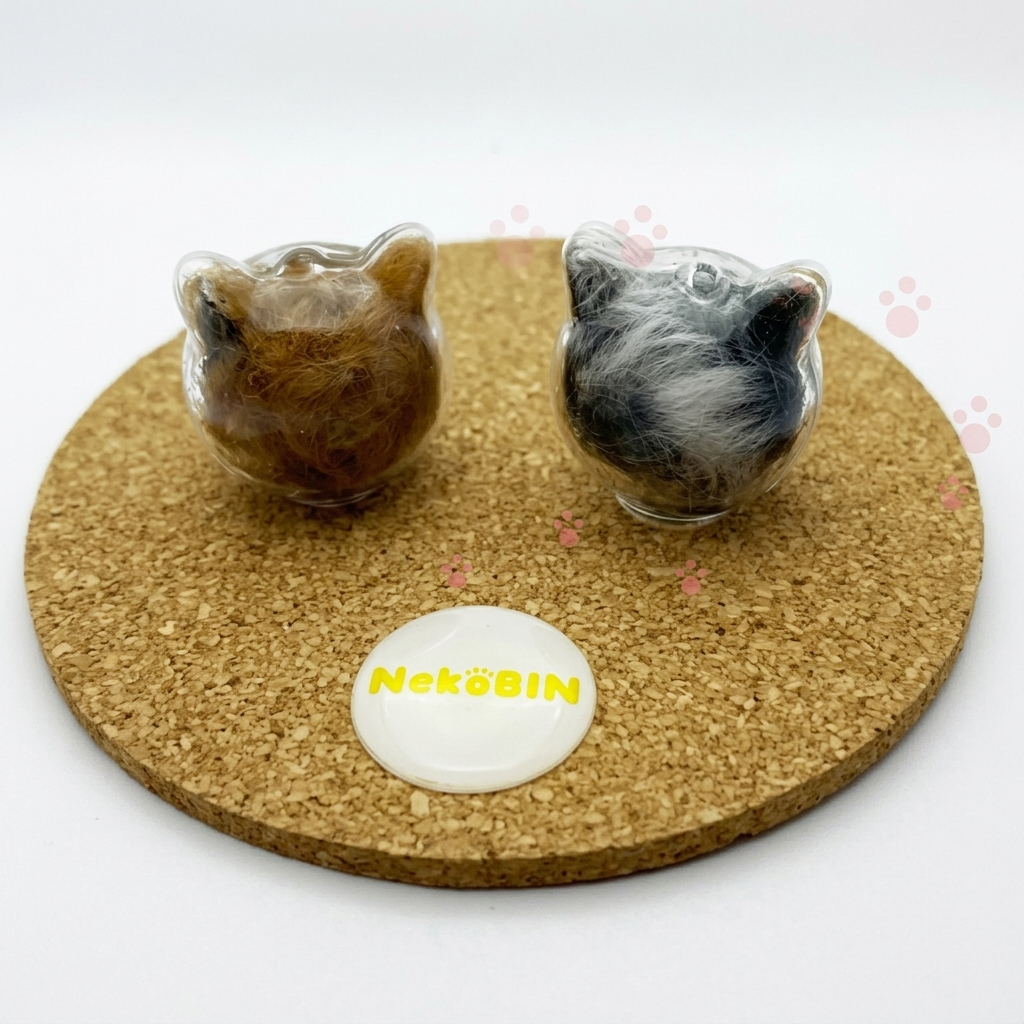
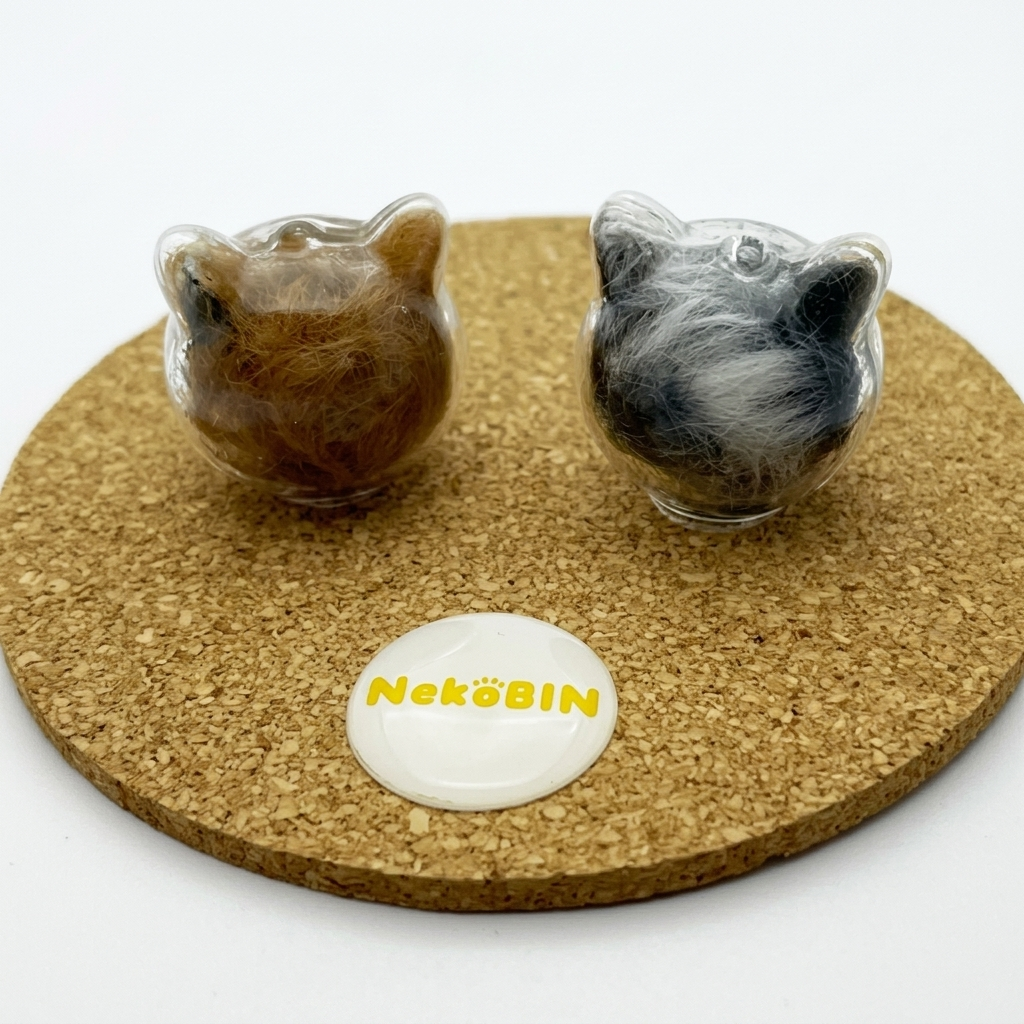
Branding alignment: update premium messaging, remove pink paw prints, and clean up images

diff --git a/script.js b/script.js
@@ -80,57 +80,5 @@ document.addEventListener('DOMContentLoaded', () => {
         });
     }
 
-    // Cat Footprint Cursor Trail Implementation (Matched with Target LP)
-    let lastX = 0;
-    let lastY = 0;
-    const distanceThreshold = 60; // Distance to spawn next paw
-    let stepCount = 0;
-
-    document.addEventListener('mousemove', (e) => {
-        const x = e.pageX; // Use pageX for absolute positioning
-        const y = e.pageY; // Use pageY for absolute positioning
-
-        const distance = Math.sqrt(Math.pow(x - lastX, 2) + Math.pow(y - lastY, 2));
-
-        if (distance > distanceThreshold) {
-            // Calculate angle for rotation
-            const angle = Math.atan2(y - lastY, x - lastX) * (180 / Math.PI) + 90;
-            
-            // Alternating offset for left/right paws
-            const offsetDist = 12;
-            const isRight = stepCount % 2 === 0;
-            const offsetX = Math.cos((angle - 180) * (Math.PI / 180)) * (isRight ? offsetDist : -offsetDist);
-            const offsetY = Math.sin((angle - 180) * (Math.PI / 180)) * (isRight ? offsetDist : -offsetDist);
-
-            createPawPrint(x + offsetX, y + offsetY, angle);
-            
-            lastX = x;
-            lastY = y;
-            stepCount++;
-        }
-    });
-
-    function createPawPrint(x, y, angle) {
-        const paw = document.createElement('div');
-        paw.className = 'cat-paw-trail';
-        paw.style.left = `${x - 20}px`; // Centering 40px width
-        paw.style.top = `${y - 20}px`;
-        paw.style.transform = `rotate(${angle}deg)`;
-        
-        paw.innerHTML = `
-            <svg viewBox="0 0 100 120" xmlns="http://www.w3.org/2000/svg" style="fill: #E8727A; width: 100%; height: 100%;">
-                <circle cx="50" cy="18" r="15"/>
-                <circle cx="18" cy="45" r="13"/>
-                <circle cx="82" cy="45" r="13"/>
-                <circle cx="50" cy="82" r="28"/>
-            </svg>
-        `;
-        
-        document.body.appendChild(paw);
-
-        // Remove from DOM after 3 seconds (as requested)
-        setTimeout(() => {
-            paw.remove();
-        }, 3000);
-    }
+    // Navigation handling logic remains here (if any)
 });

diff --git a/index.html b/index.html
@@ -11,7 +11,7 @@
     <meta property="og:type" content="website">
     <meta property="og:title" content="NekoBIN（ねこビン）| 愛するペットの毛を、思い出に変える。">
     <meta property="og:description" content="ペットとの日々を美しく残す「ペット愛毛ケース」NekoBIN。">
-    <meta property="og:image" content="https://example.com/ogp.jpg"> <!-- TODO: Replace with actual image -->
+    <meta property="og:image" content="nekobin_yellow_text.png">
     
     <!-- Google Fonts -->
     <link rel="preconnect" href="https://fonts.googleapis.com">
@@ -53,13 +53,6 @@
                     <div class="cta-group fade-in">
                         <a href="#products" class="btn btn-primary" style="border-radius: 30px; border: 2px solid var(--color-accent-soft); background-color: var(--color-accent-soft); color: var(--color-white);">商品を見る</a>
                     </div>
-                    <!-- Static Paw Decorations -->
-                    <div class="static-paw" style="top: -20%; left: 10%; transform: rotate(-15deg);">
-                        <svg viewBox="0 0 100 120" xmlns="http://www.w3.org/2000/svg"><circle cx="50" cy="18" r="15"/><circle cx="18" cy="45" r="13"/><circle cx="82" cy="45" r="13"/><circle cx="50" cy="82" r="28"/></svg>
-                    </div>
-                    <div class="static-paw" style="bottom: -30%; right: 5%; transform: rotate(20deg);">
-                        <svg viewBox="0 0 100 120" xmlns="http://www.w3.org/2000/svg"><circle cx="50" cy="18" r="15"/><circle cx="18" cy="45" r="13"/><circle cx="82" cy="45" r="13"/><circle cx="50" cy="82" r="28"/></svg>
-                    </div>
                 </div>
             </div>
         </section>
@@ -67,7 +60,7 @@
         <!-- 2. Brand Story -->
         <section id="story" class="story-section animate-on-scroll">
             <div class="container">
-                <h2 class="section-title">Story<span class="title-paw"><svg viewBox="0 0 100 120" xmlns="http://www.w3.org/2000/svg"><circle cx="50" cy="18" r="15"/><circle cx="18" cy="45" r="13"/><circle cx="82" cy="45" r="13"/><circle cx="50" cy="82" r="28"/></svg></span></h2>
+                <h2 class="section-title">Story</h2>
                 <div class="story-content">
                     <div class="story-image-container fade-in" style="margin-bottom: 3rem; text-align: center;">
                         <img src="story_header_image.png" alt="かわいい猫たち" style="max-width: 100%; border-radius: 15px; box-shadow: 0 15px 40px rgba(0,0,0,0.1);">
@@ -81,9 +74,6 @@
                     <div class="story-image-container fade-in" style="margin-top: 3rem; text-align: center;">
                         <img src="nekobin_yellow_text.png" alt="NekoBIN" style="max-width: 100%; border-radius: 15px; box-shadow: 0 15px 40px rgba(0,0,0,0.1);">
                     </div>
-                    <div class="static-paw" style="bottom: 0; right: 0; opacity: 0.05;">
-                        <svg viewBox="0 0 100 120" xmlns="http://www.w3.org/2000/svg"><circle cx="50" cy="18" r="15"/><circle cx="18" cy="45" r="13"/><circle cx="82" cy="45" r="13"/><circle cx="50" cy="82" r="28"/></svg>
-                    </div>
                 </div>
             </div>
         </section>
@@ -91,14 +81,15 @@
         <!-- 3. Product Lineup -->
         <section id="products" class="products-section animate-on-scroll">
             <div class="container">
-                <h2 class="section-title">Products<span class="title-paw"><svg viewBox="0 0 100 120" xmlns="http://www.w3.org/2000/svg"><circle cx="50" cy="18" r="15"/><circle cx="18" cy="45" r="13"/><circle cx="82" cy="45" r="13"/><circle cx="50" cy="82" r="28"/></svg></span></h2>
-                <p style="text-align: center; margin-top: -2.5rem; margin-bottom: 3rem; color: var(--color-text-sub); font-family: var(--font-serif); font-size: 1.1rem; letter-spacing: 0.1em;">お迎え記念や贈り物に</p>
+                <h2 class="section-title">Products</h2>
+                <p style="text-align: center; margin-top: -2.5rem; margin-bottom: 3rem; color: var(--color-text-sub); font-family: var(--font-serif); font-size: 1.1rem; letter-spacing: 0.1em;">お迎え記念や贈り物に、桐箱入りのプレミアムな体験を</p>
                 <div class="product-grid">
                     <div class="product-card">
                         <div class="product-image">
                             <img src="premium_cat_bin_image_1777541962179.png" alt="ねこビン">
                         </div>
                         <h3>ねこビン</h3>
+                        <p class="product-note" style="margin-bottom: 0.5rem;">桐箱入り / シリアルナンバー入り</p>
                         <div class="product-variations">
                             <div class="variation">
                                 <img src="https://stationery.sentouryoku.com/wp-content/uploads/2026/03/detail_38719_17035073724472.webp" alt="ねこビン ディスプレイタイプ">
@@ -116,6 +107,7 @@
                             <img src="premium_dog_bin_image_1777541921313.png" alt="いぬビン">
                         </div>
                         <h3>いぬビン</h3>
+                        <p class="product-note" style="margin-bottom: 0.5rem;">桐箱入り / シリアルナンバー入り</p>
                         <div class="product-variations">
                             <div class="variation">
                                 <img src="https://stationery.sentouryoku.com/wp-content/uploads/2026/03/inubin_display.png" alt="いぬビン ディスプレイタイプ">
@@ -133,6 +125,7 @@
                             <img src="premium_rabbit_bin_image_1777541940133.png" alt="うさビン">
                         </div>
                         <h3>うさビン</h3>
+                        <p class="product-note" style="margin-bottom: 0.5rem;">桐箱入り / シリアルナンバー入り</p>
                         <div class="product-variations">
                             <div class="variation">
                                 <img src="https://stationery.sentouryoku.com/wp-content/uploads/2026/03/usabin_display.png" alt="うさビン ディスプレイタイプ">
@@ -196,7 +189,7 @@
         <!-- 4. How to Use -->
         <section id="usage" class="usage-section animate-on-scroll">
             <div class="container">
-                <h2 class="section-title">How to Use<span class="title-paw"><svg viewBox="0 0 100 120" xmlns="http://www.w3.org/2000/svg"><circle cx="50" cy="18" r="15"/><circle cx="18" cy="45" r="13"/><circle cx="82" cy="45" r="13"/><circle cx="50" cy="82" r="28"/></svg></span></h2>
+                <h2 class="section-title">How to Use</h2>
                 <div class="usage-steps">
                     <div class="step">
                         <span class="step-num">01</span>
@@ -244,7 +237,7 @@
         <!-- 5. Voice -->
         <section id="voice" class="voice-section animate-on-scroll">
             <div class="container">
-                <h2 class="section-title">Voice<span class="title-paw"><svg viewBox="0 0 100 120" xmlns="http://www.w3.org/2000/svg"><circle cx="50" cy="18" r="15"/><circle cx="18" cy="45" r="13"/><circle cx="82" cy="45" r="13"/><circle cx="50" cy="82" r="28"/></svg></span></h2>
+                <h2 class="section-title">Voice</h2>
                 <p class="voice-hint" style="text-align: center; color: var(--color-text-main); font-size: 0.9rem; margin-top: -1.5rem; margin-bottom: 2rem;">※カーソルを合わせるとお客様の声が表示されます</p>
                 <div class="voice-content">
                     <div class="voice-grid">
@@ -280,7 +273,7 @@
         <!-- 6. Social Impact -->
         <section id="impact" class="impact-section animate-on-scroll">
             <div class="container">
-                <h2 class="section-title">Social Impact<span class="title-paw"><svg viewBox="0 0 100 120" xmlns="http://www.w3.org/2000/svg"><circle cx="50" cy="18" r="15"/><circle cx="18" cy="45" r="13"/><circle cx="82" cy="45" r="13"/><circle cx="50" cy="82" r="28"/></svg></span></h2>
+                <h2 class="section-title">Social Impact</h2>
                 <div class="impact-content">
                     <p class="impact-message">「ひとつの思い出が、もうひとつの命を支える。」</p>
                     <p>NekoBINの売上の一部は、保護猫・保護犬活動を行う団体へ寄付されます。<br>
@@ -296,7 +289,7 @@
         <!-- 6. Our Vision -->
         <section id="vision" class="vision-section animate-on-scroll">
             <div class="container">
-                <h2 class="section-title">Our Vision<span class="title-paw"><svg viewBox="0 0 100 120" xmlns="http://www.w3.org/2000/svg"><circle cx="50" cy="18" r="15"/><circle cx="18" cy="45" r="13"/><circle cx="82" cy="45" r="13"/><circle cx="50" cy="82" r="28"/></svg></span></h2>
+                <h2 class="section-title">Our Vision</h2>
                 <div class="vision-content">
                     <p>私たちは、物理的なプロダクトを超えた「記憶のプラットフォーム」を目指しています。</p>
                     <p>将来的に、ビンにスマホをかざすと当時の写真や動画が蘇るAR機能や、<br>
@@ -312,7 +305,7 @@
         <!-- 7. News -->
         <section id="news" class="news-section animate-on-scroll" style="background-color: #fff; padding: 6rem 0;">
             <div class="container">
-                <h2 class="section-title">News<span class="title-paw"><svg viewBox="0 0 100 120" xmlns="http://www.w3.org/2000/svg"><circle cx="50" cy="18" r="15"/><circle cx="18" cy="45" r="13"/><circle cx="82" cy="45" r="13"/><circle cx="50" cy="82" r="28"/></svg></span></h2>
+                <h2 class="section-title">News</h2>
                 <div class="news-list" style="max-width: 800px; margin: 0 auto;">
                     <a href="#" style="display: flex; gap: 2rem; padding: 1.5rem 1rem; border-bottom: 1px solid #EFEBE9; text-decoration: none; color: inherit; transition: background 0.3s ease;">
                         <div class="news-date" style="color: var(--color-accent); font-family: var(--font-serif); font-size: 0.95rem; min-width: 100px;">2026.04.30</div>
@@ -340,9 +333,6 @@
                     </a>
                 </div>
                 <p class="copyright">&copy; 2026 NekoBIN. All rights reserved.</p>
-                <div class="static-paw" style="top: 10px; right: 10px; opacity: 0.05; width: 50px; height: 50px;">
-                    <svg viewBox="0 0 100 120" xmlns="http://www.w3.org/2000/svg"><circle cx="50" cy="18" r="15"/><circle cx="18" cy="45" r="13"/><circle cx="82" cy="45" r="13"/><circle cx="50" cy="82" r="28"/></svg>
-                </div>
             </div>
         </div>
     </footer>

diff --git a/impact.html b/impact.html
@@ -1,4 +1,4 @@
-<!DOCTYPE html>
+<!DOCTYPE html>
 <html lang="ja">
 <head>
     <meta charset="UTF-8">
@@ -43,21 +43,20 @@
 
     <main>
         <!-- Hero Section -->
-        <section class="impact-hero animate-on-scroll">
-            <div class="container" style="text-align: center; padding: 6rem 0 4rem;">
-                <h1 style="font-family: var(--font-serif); font-size: 2.5rem; color: var(--color-accent); margin-bottom: 1.5rem;">Social Impact</h1>
-                <h2 style="font-size: 1.5rem; color: var(--color-text-main); margin-bottom: 2rem;">「ひとつの思い出が、もうひとつの命を支える。」</h2>
-                <p style="color: var(--color-text-sub); line-height: 1.8; max-width: 800px; margin: 0 auto;">
-                    NekoBINは、愛するペットとの想い出を形に残すだけでなく、<br>
-                    新しい家族を待つ保護猫たちの未来を支援する取り組みを行っています。
-                </p>
+        <section class="impact-hero hero-section" style="height: 60vh; display: flex; align-items: center; justify-content: center; position: relative; overflow: hidden; background: linear-gradient(160deg, #f9f8f6 0%, #efebe9 100%);">
+            <div class="container">
+                <div class="hero-content">
+                    <h1 class="fade-in" style="color: var(--color-accent);">愛するペットの毛を、新しい命の支えに。</h1>
+                    <p class="sub-copy fade-in" style="font-weight: bold; color: var(--color-text-sub); letter-spacing: 0.1em;">Social Impact</p>
+                    
+                </div>
             </div>
         </section>
 
         <!-- Current Reality Section -->
         <section class="impact-reality animate-on-scroll" style="background-color: #FAFAFA; padding: 5rem 0;">
             <div class="container">
-                <h2 class="section-title">Current Reality<span class="title-paw"><svg viewBox="0 0 100 120" xmlns="http://www.w3.org/2000/svg"><circle cx="50" cy="18" r="15"/><circle cx="18" cy="45" r="13"/><circle cx="82" cy="45" r="13"/><circle cx="50" cy="82" r="28"/></svg></span></h2>
+                <h2 class="section-title">Current Reality</h2>
                 
                 <div class="reality-content" style="display: flex; gap: 2rem; align-items: center; max-width: 900px; margin: 0 auto; flex-wrap: wrap;">
                     <div class="reality-text" style="flex: 1; min-width: 280px;">
@@ -82,7 +81,7 @@
         <!-- Our Action Section -->
         <section class="impact-action animate-on-scroll" style="padding: 5rem 0;">
             <div class="container">
-                <h2 class="section-title">Our Action<span class="title-paw"><svg viewBox="0 0 100 120" xmlns="http://www.w3.org/2000/svg"><circle cx="50" cy="18" r="15"/><circle cx="18" cy="45" r="13"/><circle cx="82" cy="45" r="13"/><circle cx="50" cy="82" r="28"/></svg></span></h2>
+                <h2 class="section-title">Our Action</h2>
                 
                 <div class="action-card" style="display: flex; gap: 2rem; background: #fff; padding: 2rem; border-radius: 15px; border: 1px solid rgba(184, 134, 11, 0.1); margin-bottom: 2rem; flex-wrap: wrap;">
                     <div class="action-image" style="flex: 1; min-width: 280px;">
@@ -146,9 +145,6 @@
                     </a>
                 </div>
                 <p class="copyright">&copy; 2026 NekoBIN. All rights reserved.</p>
-                <div class="static-paw" style="top: 10px; right: 10px; opacity: 0.05; width: 50px; height: 50px;">
-                    <svg viewBox="0 0 100 120" xmlns="http://www.w3.org/2000/svg"><circle cx="50" cy="18" r="15"/><circle cx="18" cy="45" r="13"/><circle cx="82" cy="45" r="13"/><circle cx="50" cy="82" r="28"/></svg>
-                </div>
             </div>
         </div>
     </footer>

diff --git a/style.css b/style.css
@@ -310,14 +310,6 @@ section {
     background: var(--color-accent);
 }
 
-.title-paw {
-    display: inline-block;
-    vertical-align: middle;
-    margin-left: 1rem;
-    width: 30px;
-    height: 30px;
-    opacity: 0.8;
-}
 
 /* Mobile Menu Button */
 .menu-toggle {
@@ -382,11 +374,6 @@ section {
     }
 }
 
-.title-paw svg {
-    width: 100%;
-    height: 100%;
-    fill: #E8727A;
-}
 
 /* Story Section */
 .story-content {
@@ -778,15 +765,6 @@ section {
     100% { transform: scale(1.2) rotate(10deg); opacity: 0; }
 }
 
-/* Static Decorations */
-.static-paw {
-    position: absolute;
-    width: 30px;
-    height: 30px;
-    opacity: 0.1;
-    pointer-events: none;
-    fill: var(--color-text-sub);
-}
 
 /* Animations Scroll Trigger */
 .animate-on-scroll {

diff --git a/vision.html b/vision.html
@@ -205,12 +205,14 @@
 
     <main>
         <!-- Hero -->
-        <section class="vision-page-hero">
-            <h1>Our Vision</h1>
-            <p>
-                ペットとの「記憶」を、テクノロジーで新しい体験に変える。<br>
-                NekoBINは、ひとつの小さなビンから始まる、壮大なプラットフォームへ。
-            </p>
+        <section class="vision-page-hero hero-section" style="height: 60vh; display: flex; align-items: center; justify-content: center; position: relative; overflow: hidden; background: linear-gradient(160deg, #1a1209 0%, #2c1f0e 60%, #3d2b14 100%);">
+            <div class="container">
+                <div class="hero-content">
+                    <h1 class="fade-in">愛するペットの毛を、未来の記憶に変える。</h1>
+                    <p class="sub-copy fade-in" style="font-weight: bold; color: var(--color-white); letter-spacing: 0.1em;">Our Vision</p>
+                    
+                </div>
+            </div>
         </section>
 
         <!-- Phase 1: 現在地 -->

diff --git a/gift.html b/gift.html
@@ -199,7 +199,7 @@
 
         <section class="gift-scenes animate-on-scroll" style="padding: 8rem 0; background: #fff;">
             <div class="container">
-                <h2 class="section-title">Gift Scenes<span class="title-paw"><svg viewBox="0 0 100 120" xmlns="http://www.w3.org/2000/svg"><circle cx="50" cy="18" r="15"/><circle cx="18" cy="45" r="13"/><circle cx="82" cy="45" r="13"/><circle cx="50" cy="82" r="28"/></svg></span></h2>
+                <h2 class="section-title">Gift Scenes</h2>
                 <div class="product-grid" style="grid-template-columns: repeat(auto-fit, minmax(250px, 1fr));">
                     <div class="product-card" style="padding: 1.5rem; text-align: left;">
                         <h4 style="font-family: var(--font-serif); font-size: 1.2rem; color: var(--color-accent); margin-bottom: 1rem;">お迎え記念日に</h4>